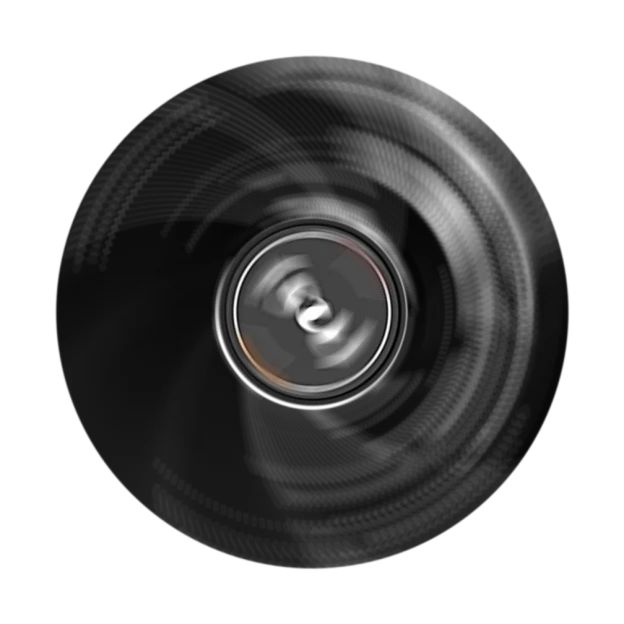
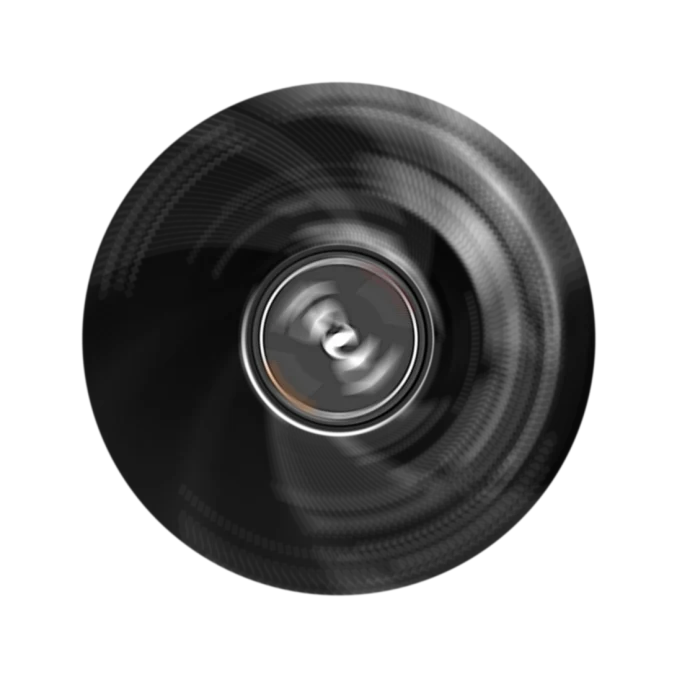
Bigger blurred fan area; drop DIMM/SSD counts and repeated status text
Claude-Session: https://claude.ai/code/session_01JFCgMpRNswLnd9jFtKUFqv

diff --git a/agent/panel/index.html b/agent/panel/index.html
@@ -178,8 +178,8 @@ dialog p{color:var(--mute);line-height:1.55;margin-bottom:12px}
         <div class="glass c sys">
           <div class="sysrow"><div class="syshead"><h3>CPU</h3><span id="m-cpuname"></span></div>
             <div class="sysvals"><div><div class="lbl">Temperature</div><div class="mv num" id="m-cpu">--</div></div><div><div class="lbl">Power Draw</div><div class="mv num" id="m-cpupow">--</div></div></div></div>
-          <div class="sysrow"><div class="syshead"><h3>Memory</h3><span>2 DIMMs</span></div><div class="sysvals num" id="m-ram"></div></div>
-          <div class="sysrow"><div class="syshead"><h3>Storage</h3><span>2 SSDs</span></div><div class="sysvals num" id="m-ssd"></div></div>
+          <div class="sysrow"><div class="syshead"><h3>Memory</h3></div><div class="sysvals num" id="m-ram"></div></div>
+          <div class="sysrow"><div class="syshead"><h3>Storage</h3></div><div class="sysvals num" id="m-ssd"></div></div>
         </div>
       </div>
       <div class="glass c" style="padding:12px 18px"><div id="m-status" class="statusrow"></div></div>
@@ -471,9 +471,9 @@ function renderMonitor(S) {
   $("m-ssd").innerHTML = pair(t.ssd, "ssd", [{ name: "SSD 1" }, { name: "SSD 2" }]);
   const next = t.schedules.filter(x => !x.missed)[0];
   $("m-status").innerHTML = [
-    ["Website", S.relay.connected ? `connected · ${S.relay.viewers} watching` : "not connected"],
-    ["Games", s.gameMode.activeGame ? esc(s.gameMode.activeGame) + " running" : "none running"],
-    ["Safety stop", S.lockout ? '<b style="color:var(--red)">LOCKED OUT</b>' : t.safety.enabled ? `on · ${t.safety.limitC} °C` : '<span style="color:var(--amber)">off</span>'],
+    ["Website", S.relay.connected ? "connected" : "not connected"],
+    ...(s.gameMode.activeGame ? [["Game running", esc(s.gameMode.activeGame)]] : []),
+    ...(S.lockout ? [["Safety stop", '<b style="color:var(--red)">LOCKED OUT</b>']] : !t.safety.enabled ? [["Safety stop", '<span style="color:var(--amber)">off</span>']] : []),
     ["Next schedule", next ? (next.action === "pc_off" ? "PC off · " : "Close Salad · ") + fmtT(next.at) : "none"],
     ...(t.shutdown.pendingAt ? [["Shutdown", `<b style="color:var(--red)">in ${Math.max(0, t.shutdown.pendingAt - Math.floor(Date.now() / 1000))} s</b>`]] : []),
   ].map(([k, v]) => `<div><span>${k}</span><span>${v}</span></div>`).join("");

diff --git a/site/index.html b/site/index.html
@@ -77,9 +77,9 @@
         <div><div class="lbl">Temperature</div><div class="v" id="cpu-temp">--</div></div>
         <div><div class="lbl">Power Draw</div><div class="v" id="cpu-power">--</div></div>
       </div></section>
-    <section class="glass card"><div class="sec-h"><h2>Memory</h2><span>2 DIMMs</span></div>
+    <section class="glass card"><div class="sec-h"><h2>Memory</h2></div>
       <div class="two num" id="ram"></div></section>
-    <section class="glass card"><div class="sec-h"><h2>Storage</h2><span>2 SSDs</span></div>
+    <section class="glass card"><div class="sec-h"><h2>Storage</h2></div>
       <div class="two num" id="ssd"></div></section>
   </div>
 

diff --git a/tools/scripts/make_fan_layers.py b/tools/scripts/make_fan_layers.py
@@ -17,7 +17,7 @@ FANS = [((2318.2, 1011.3), (132.5, 162.3), 141.4, 2.90),
         ((2853.4, 1133.1), (141.6, 166.2), 133.8, 2.90),
         ((3424.9, 1263.2), (149.7, 171.6), 122.9, 3.05)]
 R = 420                      # frontal rotor radius in the unwarped working space
-S = int(R * 2.4); C = S / 2  # working square (room for the blurred ring past the blade tips)
+S = int(R * 2.6); C = S / 2  # working square (room for the blurred ring past the blade tips)
 yy, xx = np.mgrid[0:S, 0:S]; rr = np.hypot(xx - C, yy - C)
 
 def fan_affine(c, w, h, ang, k):
@@ -51,7 +51,7 @@ for i, (c, (w, h), ang, k) in enumerate(FANS):
         acc += cv2.warpAffine(un, Mr, (S, S), flags=cv2.INTER_LINEAR, borderMode=cv2.BORDER_REPLICATE).astype(np.float32)
     behind = acc / steps * 0.8
     # blur reaches past the blade tips (so no still blade edges peek out) and fades out softly
-    hole = (np.clip((R * 1.11 - rr) / (R * 0.07), 0, 1) * 255).astype(np.uint8)
+    hole = (np.clip((R * 1.22 - rr) / (R * 0.09), 0, 1) * 255).astype(np.uint8)
     # rotor RGBA, plus rotational blur levels for high speeds (anti wagon-wheel)
     rgba = np.dstack([un, alpha])
     for lvl, span in enumerate([0, 10, 24, 50]):
